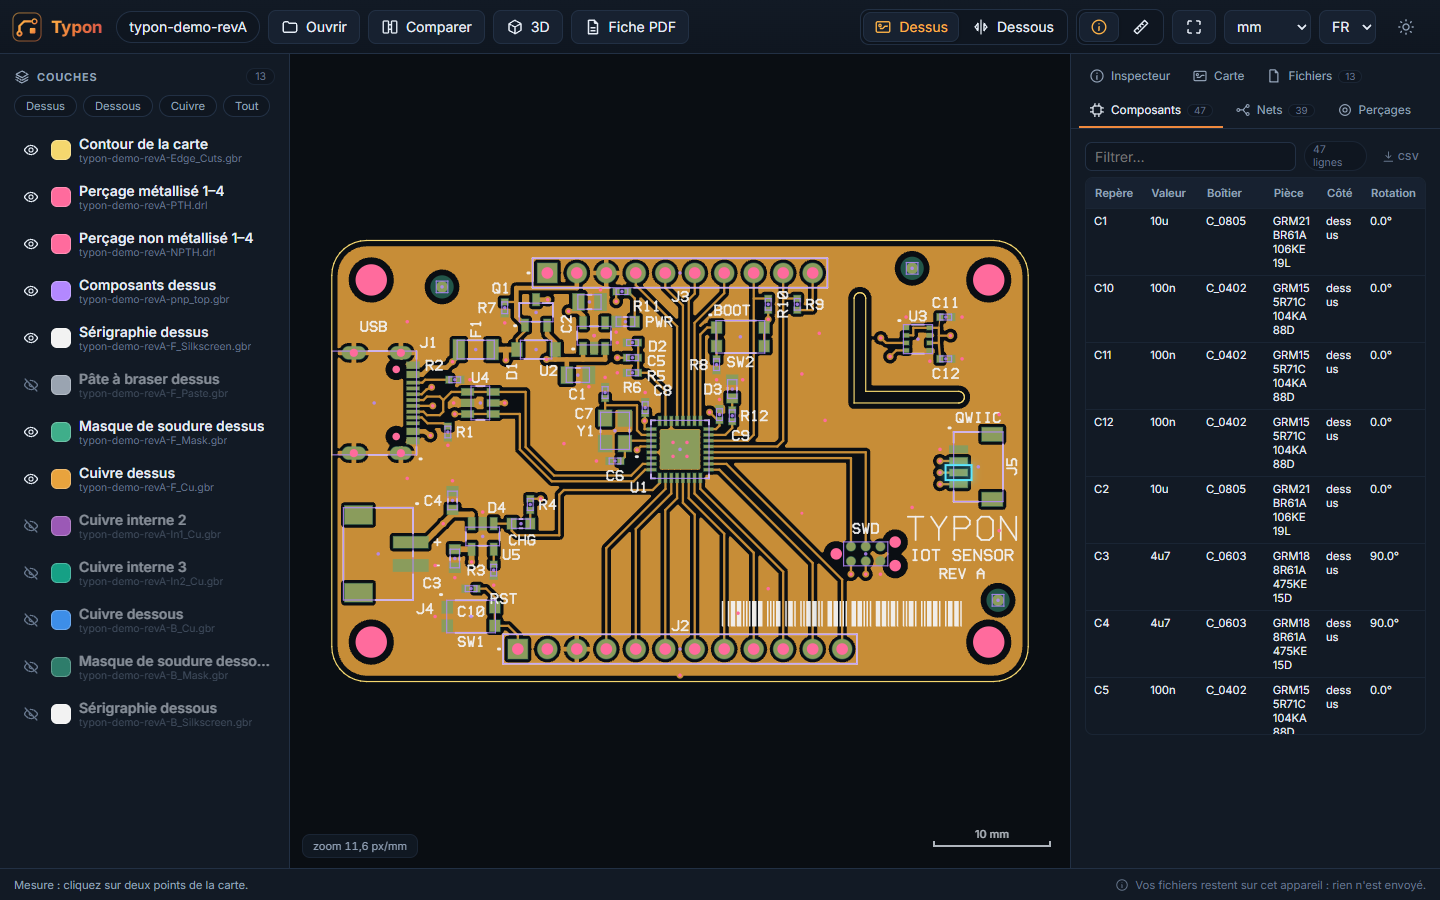
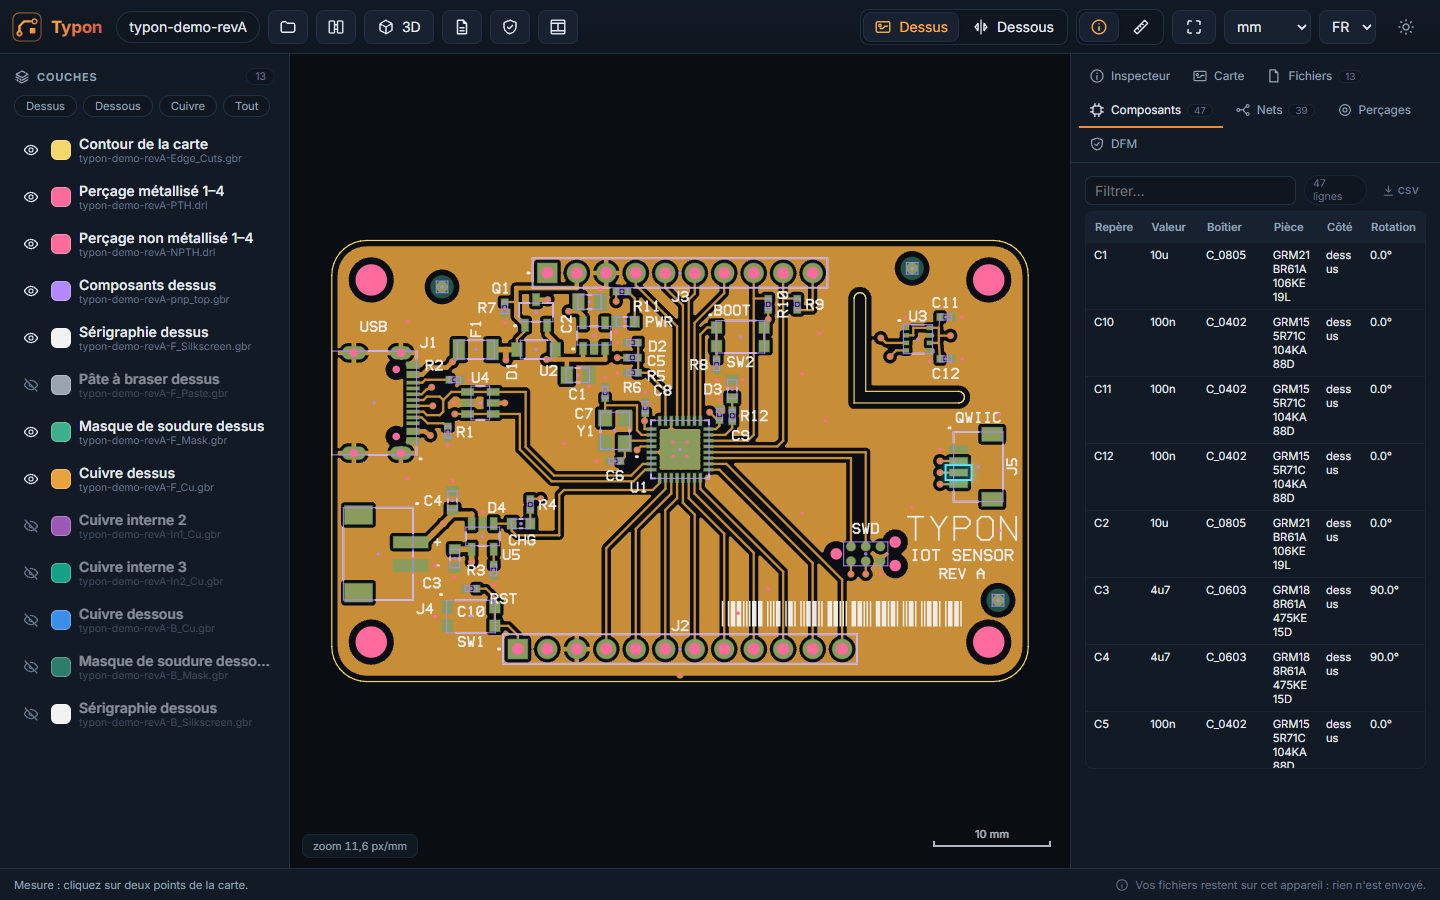
DFM : anneau mesuré sur la pastille, défauts de sérigraphie voisins regroupés ; essai strict des six défauts de la carte d'exemple

diff --git a/core/src/dfm.rs b/core/src/dfm.rs
@@ -362,6 +362,69 @@ fn net_de(d: &Dessin, objet: u32) -> Option<&str> {
     d.info_objet(objet)?.iter().find(|(k, _)| k == "Net").map(|(_, v)| v.as_str()).filter(|v| !v.is_empty() && !matches!(*v, "$NONE$" | "N/C" | "NC" | "No Net" | "<No Net>"))
 }
 
+/// Pastilles d'une couche de cuivre (disques, rectangles, petits polygones), rangées dans une grille.
+struct Pastilles<'a> {
+    prims: Vec<&'a Prim>,
+    grille: HashMap<(i64, i64), Vec<usize>>,
+}
+
+impl<'a> Pastilles<'a> {
+    fn nouvelles(d: &'a Dessin) -> Pastilles<'a> {
+        let mut prims = Vec::new();
+        let mut grille: HashMap<(i64, i64), Vec<usize>> = HashMap::new();
+        for e in d.elements.iter().filter(|e| e.sombre) {
+            let b = e.prim.boite_englobante();
+            let pastille = match &e.prim {
+                Prim::Cap { a, b: q, r } => a.dist(*q) < 1e-9 && *r > 0.0,
+                Prim::Boite { .. } => true,
+                Prim::Poly { anneaux } => anneaux.len() == 1 && b.x1 - b.x0 < 8.0 && b.y1 - b.y0 < 8.0,
+            };
+            if !pastille {
+                continue;
+            }
+            let i = prims.len();
+            prims.push(&e.prim);
+            let c = pt((b.x0 + b.x1) / 2.0, (b.y0 + b.y1) / 2.0);
+            grille.entry(((c.x / 2.0).floor() as i64, (c.y / 2.0).floor() as i64)).or_default().push(i);
+        }
+        Pastilles { prims, grille }
+    }
+
+    /// Distance du centre du trou au bord de la plus grande pastille qui le contient.
+    fn anneau(&self, p: Pt) -> Option<f64> {
+        let (cx, cy) = ((p.x / 2.0).floor() as i64, (p.y / 2.0).floor() as i64);
+        let mut meilleur: Option<f64> = None;
+        for dx in -2..=2 {
+            for dy in -2..=2 {
+                for &i in self.grille.get(&(cx + dx, cy + dy)).map(|v| v.as_slice()).unwrap_or(&[]) {
+                    let d = match self.prims[i] {
+                        Prim::Cap { a, r, .. } => r - a.dist(p),
+                        Prim::Boite { c, hw, hh, ang, rad } => {
+                            let (s, co) = ang.sin_cos();
+                            let (dx, dy) = (p.x - c.x, p.y - c.y);
+                            let (lx, ly) = ((dx * co + dy * s).abs(), (-dx * s + dy * co).abs());
+                            let (qx, qy) = (lx - (hw - rad), ly - (hh - rad));
+                            -((qx.max(0.0).powi(2) + qy.max(0.0).powi(2)).sqrt() + qx.max(qy).min(0.0) - rad)
+                        }
+                        Prim::Poly { anneaux } => {
+                            if geom::point_dans_anneau(p, &anneaux[0]) {
+                                let a = &anneaux[0];
+                                (0..a.len()).map(|k| geom::dist_segment(p, a[k], a[(k + 1) % a.len()])).fold(f64::INFINITY, f64::min)
+                            } else {
+                                -1.0
+                            }
+                        }
+                    };
+                    if d > 0.0 && meilleur.map(|m| d > m).unwrap_or(true) {
+                        meilleur = Some(d);
+                    }
+                }
+            }
+        }
+        meilleur
+    }
+}
+
 struct Trou {
     c: Pt,
     r: f64,
@@ -582,14 +645,24 @@ pub fn verifier(couches: &[Couche], regles: &Regles) -> Value {
         }
     }
 
-    // Anneau annulaire et pastille absente, sur les couches externes, pour les trous métallisés.
+    // Anneau annulaire et pastille absente, sur les couches externes, pour les trous métallisés. L'anneau se mesure sur
+    // la pastille posée sur le trou (la plus grande), comme le font les fabricants ; sans pastille, sur le cuivre
+    // qui entoure le trou.
     if trous.iter().any(|t| t.metallise) && !ilots_externes.is_empty() {
         note("anneau");
         let noms: HashMap<Cote, String> = couches.iter().filter(|c| c.role.genre == Genre::Cuivre && (c.role.cote == Cote::Dessus || c.role.cote == Cote::Dessous)).map(|c| (c.role.cote, c.nom.clone())).collect();
         for (cote, ilots) in &ilots_externes {
             let reperage = Reperage::nouveau(ilots);
             let nom = noms.get(cote).cloned().unwrap_or_default();
+            let pastilles = couches.iter().find(|c| c.role.genre == Genre::Cuivre && c.role.cote == *cote).map(|c| Pastilles::nouvelles(&c.dessin));
             for t in trous.iter().filter(|t| t.metallise && if *cote == Cote::Dessus { t.dessus } else { t.dessous }) {
+                if let Some(a) = pastilles.as_ref().and_then(|p| p.anneau(t.c)) {
+                    let anneau = a - t.r;
+                    if anneau < regles.anneau - 1e-6 {
+                        res.push(Resultat { regle: "anneau", couche: nom.clone(), x: t.c.x, y: t.c.y, valeur: anneau.max(0.0), limite: regles.anneau, details: format!("Ø {:.3} mm", 2.0 * t.r) });
+                    }
+                    continue;
+                }
                 match reperage.contenant(ilots, t.c) {
                     Some(i) => {
                         let anneau = ilots[i].distance_bord(t.c) - t.r;
@@ -665,6 +738,18 @@ pub fn verifier(couches: &[Couche], regles: &Regles) -> Value {
         }
     }
 
+    // Défauts de surface voisins (les lettres d'un même texte) : regroupés, à moins de 1,5 mm les uns des autres.
+    let mut regroupes: Vec<Resultat> = Vec::new();
+    for x in res.into_iter() {
+        if matches!(x.regle, "serigraphiePastille" | "serigraphieHors") {
+            if let Some(g) = regroupes.iter_mut().find(|g| g.regle == x.regle && g.couche == x.couche && (g.x - x.x).hypot(g.y - x.y) < 1.5) {
+                g.valeur += x.valeur;
+                continue;
+            }
+        }
+        regroupes.push(x);
+    }
+    let mut res = regroupes;
     // Tri : par règle, le plus grave d'abord (plus petite valeur), et au plus 2000 résultats par règle.
     res.sort_by(|a, b| a.regle.cmp(b.regle).then(a.valeur.partial_cmp(&b.valeur).unwrap_or(std::cmp::Ordering::Equal)));
     let mut comptes: HashMap<&'static str, usize> = HashMap::new();

diff --git a/core/tests/exemples.rs b/core/tests/exemples.rs
@@ -412,11 +412,17 @@ fn dfm() {
         let t0 = Instant::now();
         let r = typon_core::dfm::verifier(&lot.couches, &regles);
         println!("DFM {nom} : {:.2} s, vérifiées {}, comptes {}", t0.elapsed().as_secs_f64(), r["verifiees"], r["comptes"]);
-        for x in r["resultats"].as_array().unwrap().iter().filter(|x| x["regle"] == "court" || x["regle"] == "isolement").take(6) {
+        for x in r["resultats"].as_array().unwrap().iter().filter(|x| nom.starts_with("demo") || x["regle"] == "court" || x["regle"] == "isolement").take(12) {
             println!("   {x}");
         }
         if nom.starts_with("demo") {
             assert!(r["verifiees"].as_array().unwrap().len() >= 8, "{nom} : règles vérifiées {}", r["verifiees"]);
+            // Exactement les six défauts volontaires de docs/defauts-exemple.md (anneau et bord : sur les deux faces).
+            assert_eq!(r["comptes"], serde_json::json!({"anneau": 2, "cuivreBord": 2, "isolement": 1, "percage": 1, "piste": 1, "serigraphiePastille": 1}), "{nom}");
+            for (regle, x, y) in [("piste", 52.35, 30.94), ("isolement", 35.0, 5.55), ("anneau", 22.8, 19.0), ("cuivreBord", 30.0, 0.55), ("percage", 40.5, 14.5), ("serigraphiePastille", 14.2, 6.85)] {
+                let trouve = r["resultats"].as_array().unwrap().iter().any(|d| d["regle"] == regle && (d["x"].as_f64().unwrap() - x).hypot(d["y"].as_f64().unwrap() - y) < 1.0);
+                assert!(trouve, "{nom} : défaut {regle} attendu vers ({x} ; {y})");
+            }
         }
     }
 }
